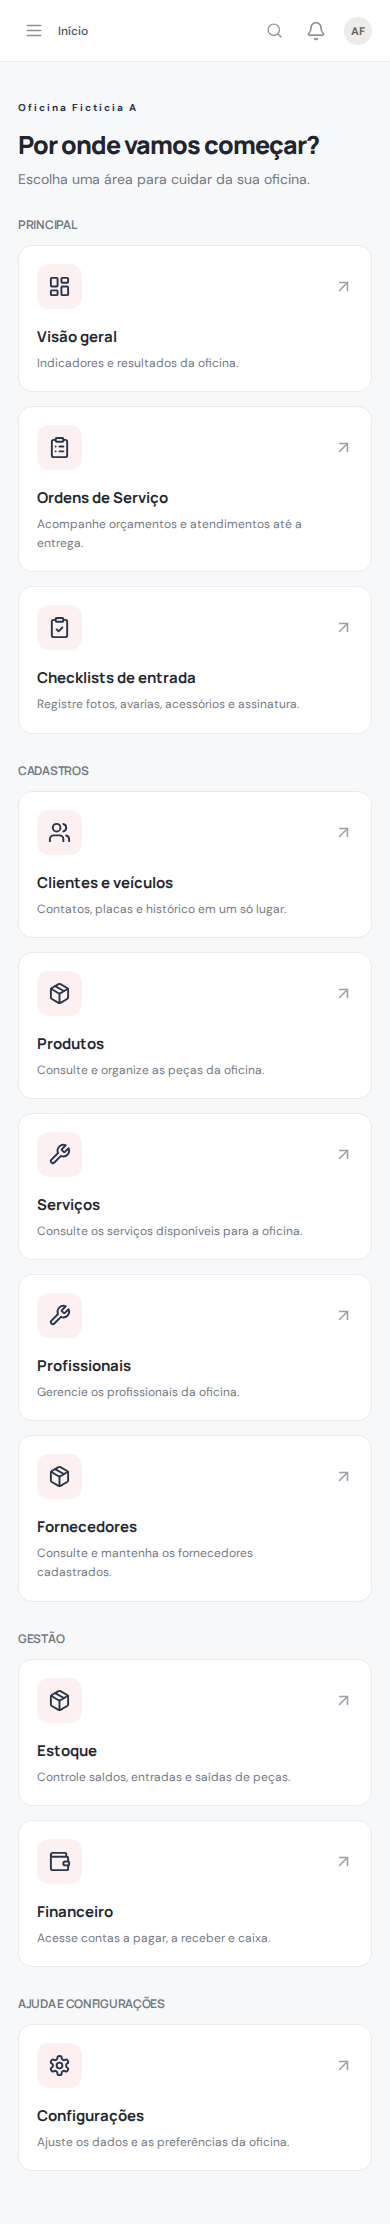
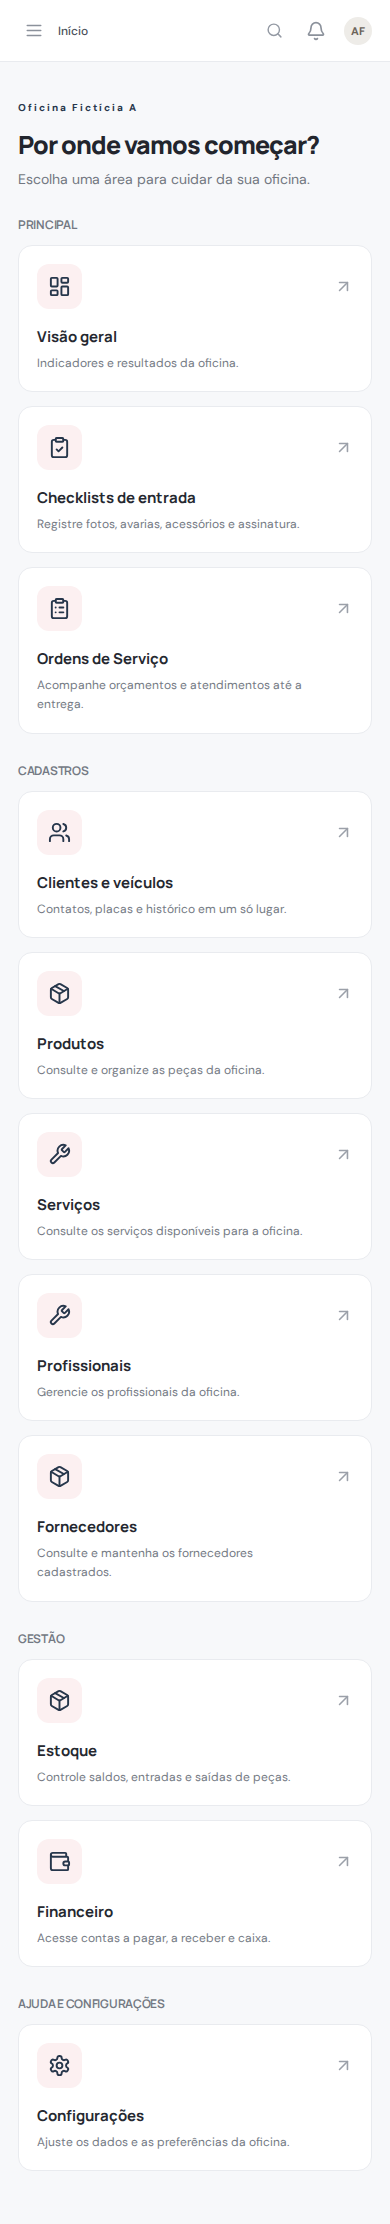
docs(visual): atualizar menu Horse Power em desktop e celular

Changed region(s): [[0.0923, 0.2172, 0.5231, 0.3103]]

diff --git a/docs/mapeamento-visual/CHECKLIST.md b/docs/mapeamento-visual/CHECKLIST.md
@@ -8,7 +8,7 @@ Estados: capturada, pendente, bloqueada e não aplicável.
 |---|---|---|---|---|---|---|---|
 | gestao-resultados-periodo | Resultados da oficina | Resultados por intervalo — Filtro livre de datas, indicadores, metas e relatório PDF com dados fictícios da oficina. | — | não aplicável | 2026-11-14 | 94fa2812fa6090116c74c9a9f830de8c2ed378d3 | Módulo Resultados removido; usar os relatórios de Financeiro. |
 | login-oficina | Login e acesso | Login da oficina — Tela inicial de autenticação, sem usuário ou senha preenchidos. | [`capturas/01-login-acesso/login-oficina.png`](./capturas/01-login-acesso/login-oficina.png) | capturada | 2026-10-22 | não registrado | Captura real com dados fictícios feita em 22/10/2026. O commit de origem não foi registrado; recaptura Playwright e atualização do commit estão pendentes. |
-| inicio-oficina-a | Dashboard | Início da Oficina Fictícia A — Menu e atalhos da conta de demonstração. | [`capturas/02-dashboard/inicio-oficina.png`](./capturas/02-dashboard/inicio-oficina.png) | capturada | 2026-11-14 | 6811e747400237f60659033e6a3ede88401b3556 | Captura Playwright no CI com oficina fictícia e PostgreSQL 17 temporário. |
+| inicio-oficina-a | Dashboard | Início da Oficina Fictícia A — Menu e atalhos da conta de demonstração. | [`capturas/02-dashboard/inicio-oficina.png`](./capturas/02-dashboard/inicio-oficina.png) | capturada | 2026-11-18 | 8511130a7fbb63c9e2922eaabb759ca4e4038ac5 | Captura Playwright no CI #985 com oficina fictícia e PostgreSQL 17 temporário; menu em ordem Visão geral, Checklists, Ordens de Serviço. |
 | dashboard-oficina-a | Dashboard | Visão geral da Oficina Fictícia A — Indicadores vazios da oficina de teste. | [`capturas/02-dashboard/dashboard-oficina.png`](./capturas/02-dashboard/dashboard-oficina.png) | capturada | 2026-10-22 | não registrado | Captura real com dados fictícios feita em 22/10/2026. O commit de origem não foi registrado; recaptura Playwright e atualização do commit estão pendentes. |
 | inicio-oficina-b | Dashboard | Início da Oficina Fictícia B — Menu e atalhos em uma segunda conta fictícia. | [`capturas/02-dashboard/inicio-oficina-oficina-b.png`](./capturas/02-dashboard/inicio-oficina-oficina-b.png) | capturada | 2026-10-22 | não registrado | Captura real com dados fictícios feita em 22/10/2026. O commit de origem não foi registrado; recaptura Playwright e atualização do commit estão pendentes. |
 | dashboard-oficina-b | Dashboard | Visão geral da Oficina Fictícia B — Indicadores da segunda conta fictícia para referência de isolamento. | [`capturas/02-dashboard/dashboard-oficina-b.png`](./capturas/02-dashboard/dashboard-oficina-b.png) | capturada | 2026-10-22 | não registrado | Captura real com dados fictícios feita em 22/10/2026. O commit de origem não foi registrado; recaptura Playwright e atualização do commit estão pendentes. |
@@ -42,7 +42,7 @@ Estados: capturada, pendente, bloqueada e não aplicável.
 | config-lucro-pecas | Configurações da oficina | Lucro de peças e terceiros — Peças e serviços de terceiros em abas separadas, com faixas e simuladores de preço. | [`capturas/14-configuracoes/lucro-pecas-terceiros.png`](./capturas/14-configuracoes/lucro-pecas-terceiros.png) | capturada | 2026-11-10 | 87f4e7157094219d64c30322a5d954aeb2fca465 | — |
 | login-painel-central | Painel Administrativo Central | Login do Painel Administrativo Central — Formulário vazio; nenhuma credencial ou código MFA aparece na captura. | [`capturas/17-painel-admin-central/login-admin-central.png`](./capturas/17-painel-admin-central/login-admin-central.png) | capturada | 2026-10-22 | não registrado | Captura real com dados fictícios feita em 22/10/2026. O commit de origem não foi registrado; recaptura Playwright e atualização do commit estão pendentes. |
 | login-oficina-desktop | Login e acesso | Login da oficina — Tela inicial de autenticação, sem usuário ou senha preenchidos. | `capturas/01-login-acesso/login-oficina-desktop.png` (previsto) | pendente | — | não registrado | Variante desktop ainda não foi gerada. Execute a captura Playwright em ambiente local de teste. |
-| inicio-oficina-a-desktop | Dashboard | Início da Oficina Fictícia A — Menu e atalhos da conta de demonstração. | [`capturas/02-dashboard/inicio-oficina-desktop.png`](./capturas/02-dashboard/inicio-oficina-desktop.png) | capturada | 2026-11-14 | 6811e747400237f60659033e6a3ede88401b3556 | Captura Playwright no CI com oficina fictícia e PostgreSQL 17 temporário. |
+| inicio-oficina-a-desktop | Dashboard | Início da Oficina Fictícia A — Menu e atalhos da conta de demonstração. | [`capturas/02-dashboard/inicio-oficina-desktop.png`](./capturas/02-dashboard/inicio-oficina-desktop.png) | capturada | 2026-11-18 | 8511130a7fbb63c9e2922eaabb759ca4e4038ac5 | Captura Playwright no CI #985 com oficina fictícia e PostgreSQL 17 temporário; menu em ordem Visão geral, Checklists, Ordens de Serviço. |
 | dashboard-oficina-a-desktop | Dashboard | Visão geral da Oficina Fictícia A — Indicadores vazios da oficina de teste. | `capturas/02-dashboard/dashboard-oficina-desktop.png` (previsto) | pendente | — | não registrado | Variante desktop ainda não foi gerada. Execute a captura Playwright em ambiente local de teste. |
 | inicio-oficina-b-desktop | Dashboard | Início da Oficina Fictícia B — Menu e atalhos em uma segunda conta fictícia. | `capturas/02-dashboard/inicio-oficina-oficina-b-desktop.png` (previsto) | pendente | — | não registrado | Variante desktop ainda não foi gerada. Execute a captura Playwright em ambiente local de teste. |
 | dashboard-oficina-b-desktop | Dashboard | Visão geral da Oficina Fictícia B — Indicadores da segunda conta fictícia para referência de isolamento. | `capturas/02-dashboard/dashboard-oficina-b-desktop.png` (previsto) | pendente | — | não registrado | Variante desktop ainda não foi gerada. Execute a captura Playwright em ambiente local de teste. |

diff --git a/docs/mapeamento-visual/INDEX.md b/docs/mapeamento-visual/INDEX.md
@@ -56,7 +56,7 @@ Menu e atalhos da conta de demonstração.
 
 [![Início da Oficina Fictícia A](./capturas/02-dashboard/inicio-oficina.png)](./capturas/02-dashboard/inicio-oficina.png)
 
-Estado: capturada · mobile · captura 2026-11-14 · commit de origem: 6811e747400237f60659033e6a3ede88401b3556 · [arquivo completo](./capturas/02-dashboard/inicio-oficina.png)
+Estado: capturada · mobile · captura 2026-11-18 · commit de origem: 8511130a7fbb63c9e2922eaabb759ca4e4038ac5 · [arquivo completo](./capturas/02-dashboard/inicio-oficina.png)
 
 ### Visão geral da Oficina Fictícia A
 
@@ -88,7 +88,7 @@ Menu e atalhos da conta de demonstração.
 
 [![Início da Oficina Fictícia A](./capturas/02-dashboard/inicio-oficina-desktop.png)](./capturas/02-dashboard/inicio-oficina-desktop.png)
 
-Estado: capturada · desktop · captura 2026-11-14 · commit de origem: 6811e747400237f60659033e6a3ede88401b3556 · [arquivo completo](./capturas/02-dashboard/inicio-oficina-desktop.png)
+Estado: capturada · desktop · captura 2026-11-18 · commit de origem: 8511130a7fbb63c9e2922eaabb759ca4e4038ac5 · [arquivo completo](./capturas/02-dashboard/inicio-oficina-desktop.png)
 
 ## 03 — Clientes
 
